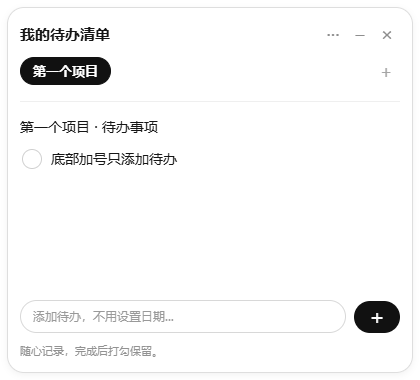
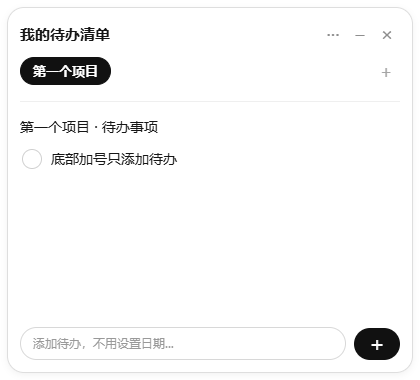
fix: finish removing footer hint after PR sync

Changed region(s): [[0.031, 0.8105, 0.4333, 0.9553], [0.8357, 0.7816, 0.9595, 0.9553]]

diff --git a/src/styles.css b/src/styles.css
@@ -110,4 +110,4 @@ dialog label { display: block; color: #777; font-size: 12px; margin-bottom: 7px;
 .project-management-row .icon-button { width: 23px; height: 25px; font-size: 14px; }
 .wide-button { width: 100%; margin-top: 12px; }
 @media (hover: none) { .task-actions { opacity: 1; } }
-@media (max-height: 330px) { main { padding-top: 8px; } .footnote { margin-top: 6px; } .project-tabs { padding-bottom: 10px; } dialog { padding: 16px; } }
+@media (max-height: 330px) { main { padding-top: 8px; } .project-tabs { padding-bottom: 10px; } dialog { padding: 16px; } }

diff --git a/src/renderer.js b/src/renderer.js
@@ -454,7 +454,7 @@ window.todo.onError(message => notify(message, true));
 run(async () => {
   const result = await window.todo.load(); state = result.state;
   render();
-  document.querySelector('.footnote').title = `本地保存：${result.dataFile}`;
+  $('data-directory-button').title = `本地保存：${result.dataFile}`;
   if (result.notice) notify(result.notice, true);
   (state.projects.length ? $('task-input') : $('new-project-button')).focus();
 });

diff --git a/README.md b/README.md
@@ -91,7 +91,7 @@ powershell -NoProfile -ExecutionPolicy Bypass -File scripts\make-icons.ps1
 %APPDATA%\SuixinTodo\data.json
 ```
 
-`··· → 打开数据目录` 或托盘同名菜单通过 Electron Shell 打开实际运行时目录；底部说明的悬浮提示也显示数据文件路径。数据不写入安装目录、app.asar 或 portable 解压目录，NSIS 配置为卸载保留数据。本次已验证同版本覆盖安装；注销、系统重启和跨版本升级尚未实测。
+`··· → 打开数据目录` 或托盘同名菜单通过 Electron Shell 打开实际运行时目录；“打开数据目录”菜单项的悬浮提示也显示数据文件路径。数据不写入安装目录、app.asar 或 portable 解压目录，NSIS 配置为卸载保留数据。本次已验证同版本覆盖安装；注销、系统重启和跨版本升级尚未实测。
 
 开发版、win-unpacked、NSIS 与 portable 默认共用当前 Windows 用户的上述目录。同一用户重复启动由单实例锁处理；切换 Windows 用户或用另一账户运行时会使用那个账户的 APPDATA，不会自动跨用户复制。没有变更 appId、目录名、文件名或 JSON version。
 

diff --git a/TEST-REPORT.md b/TEST-REPORT.md
@@ -1,5 +1,9 @@
 # SuixinTodo 测试报告
 
+## 补充：移除底部提示语（2026-10-23）
+
+同步已合并的 PR #1 到子任务分支，移除底部文案与残留小窗样式；修复 renderer 仍访问已删除 `.footnote` 导致启动错误的问题，数据文件路径悬浮提示转移到“打开数据目录”菜单项。语法检查、完整 Electron E2E **13/13** 与打包 EXE 持久化检查通过；截图已更新并目视确认底部仅保留输入区域。未修改存储逻辑，本轮不重复单元和 NSIS 安装流程。打包检查现场为 `test-results/suixin-packaged-LdJzjN/`。
+
 ## 最新：极简子任务（2026-10-23）
 
 开发分支：`codex/minimal-subtasks`，基于 `98bc7fb`。未新增第三方依赖，不改 appId、数据目录或 JSON version，不重置用户数据。
